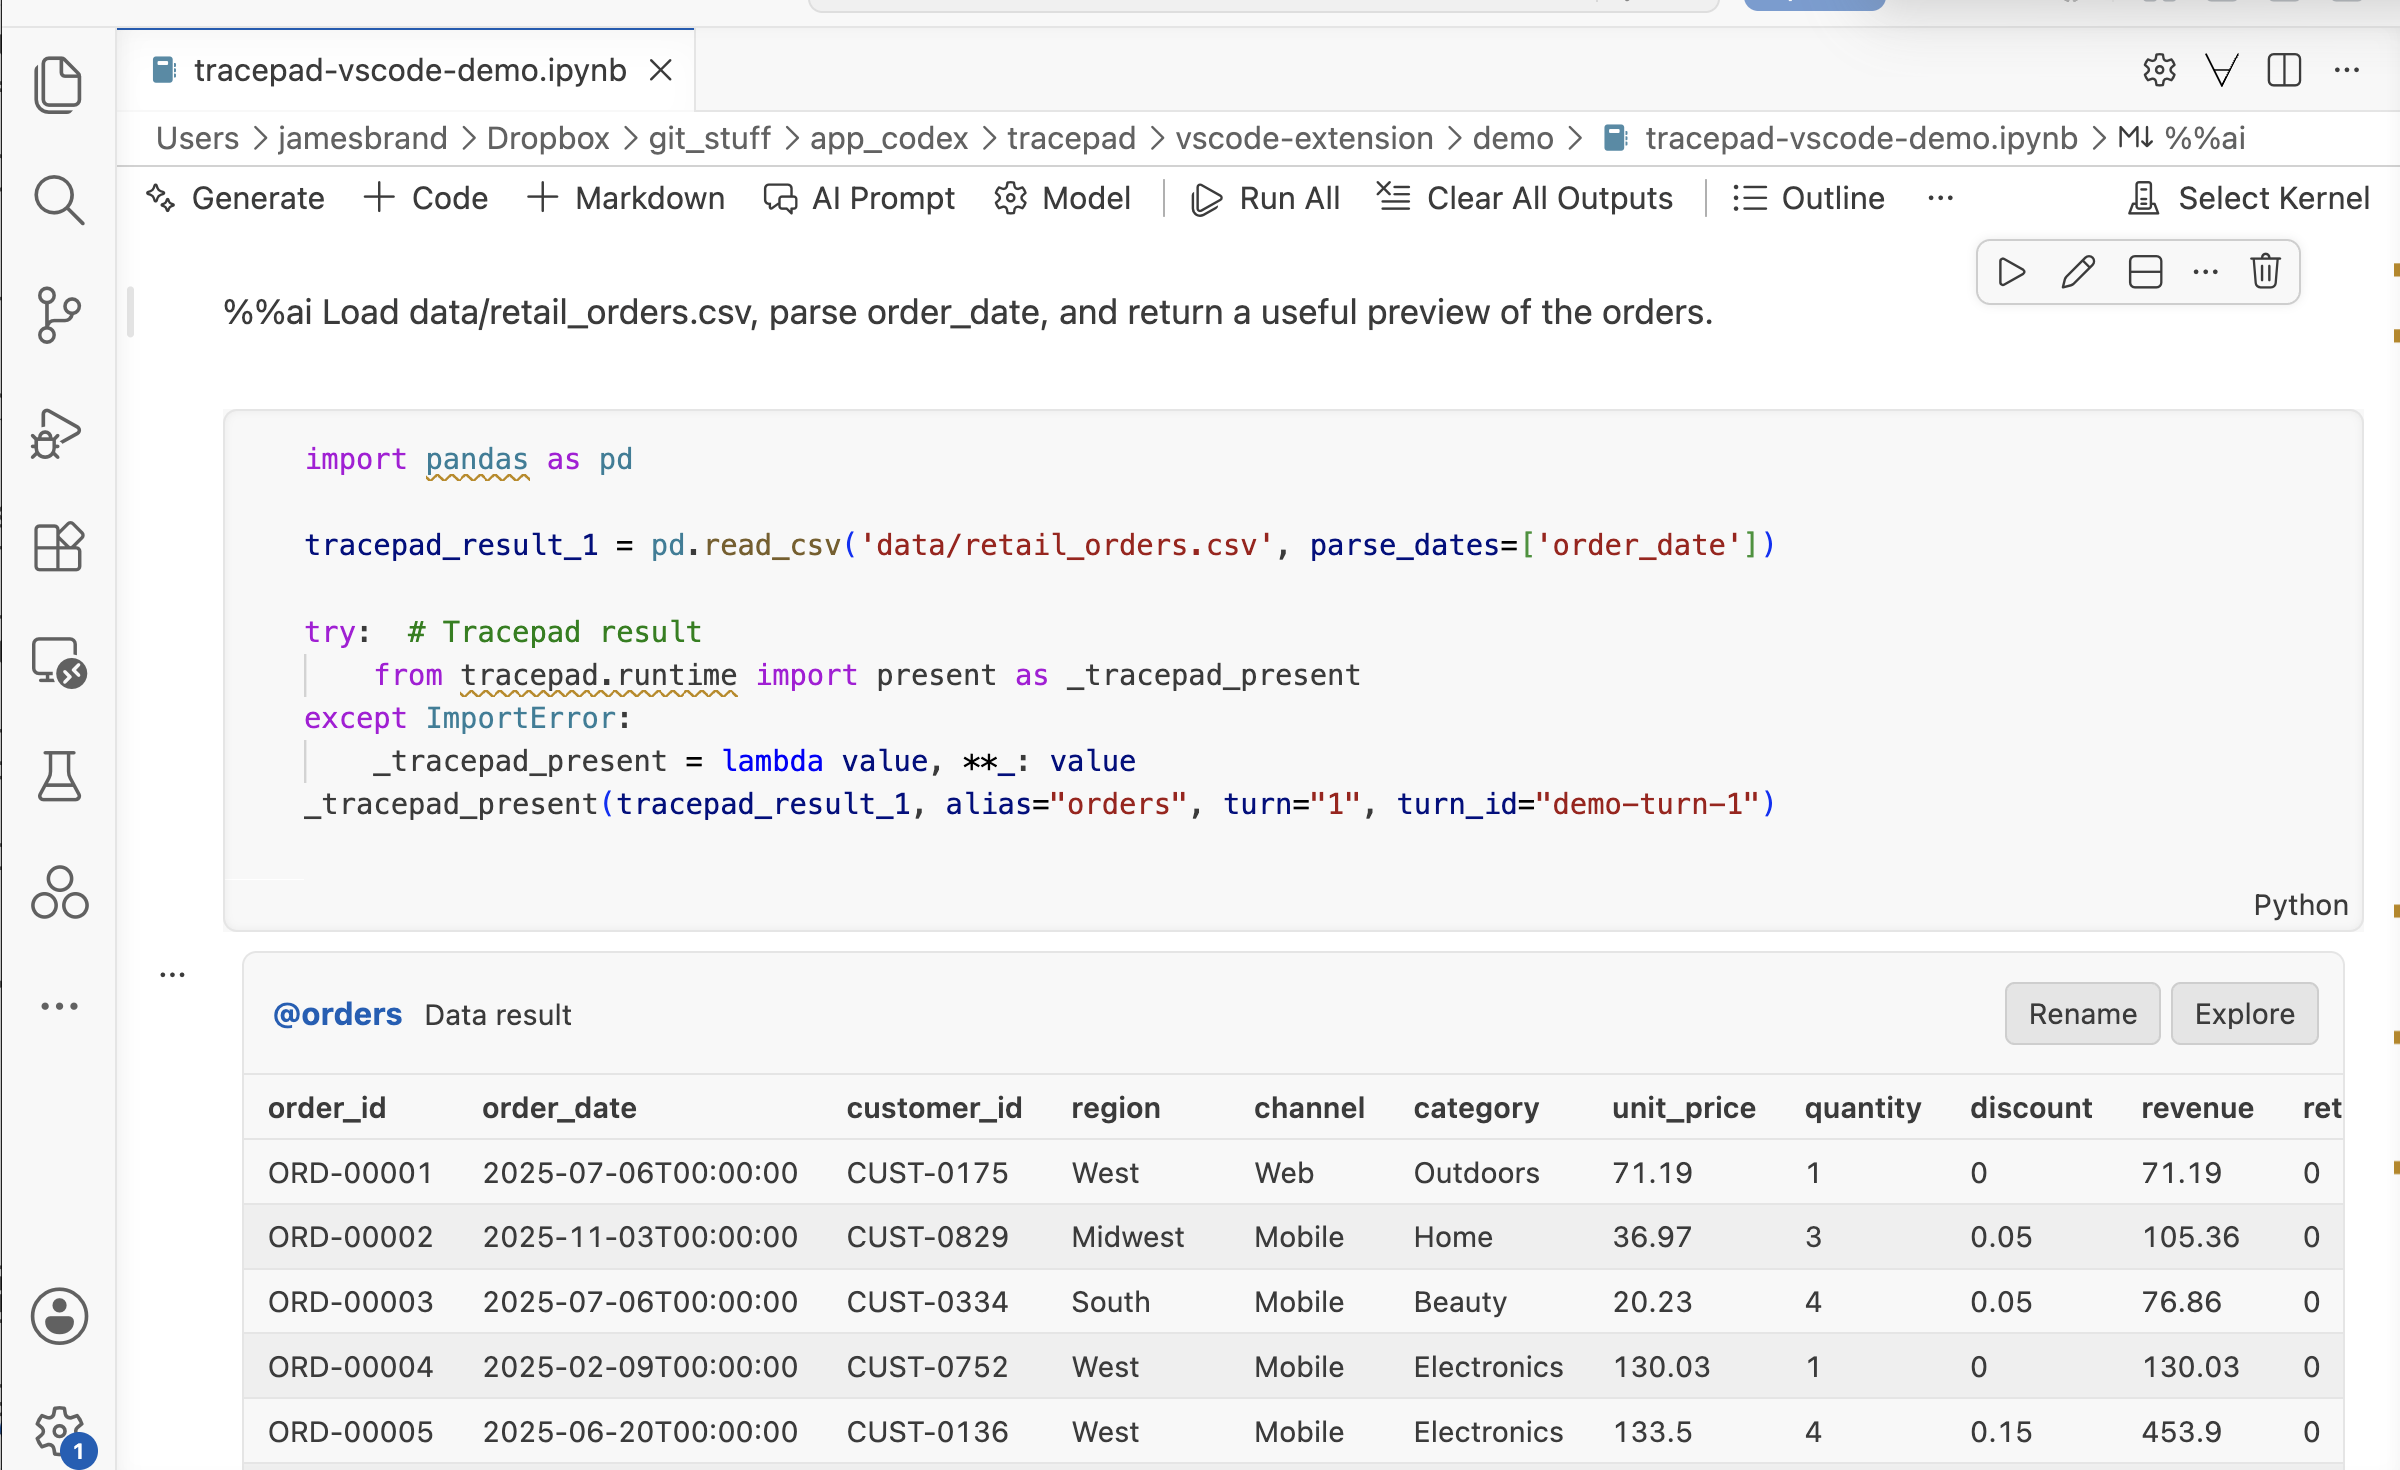
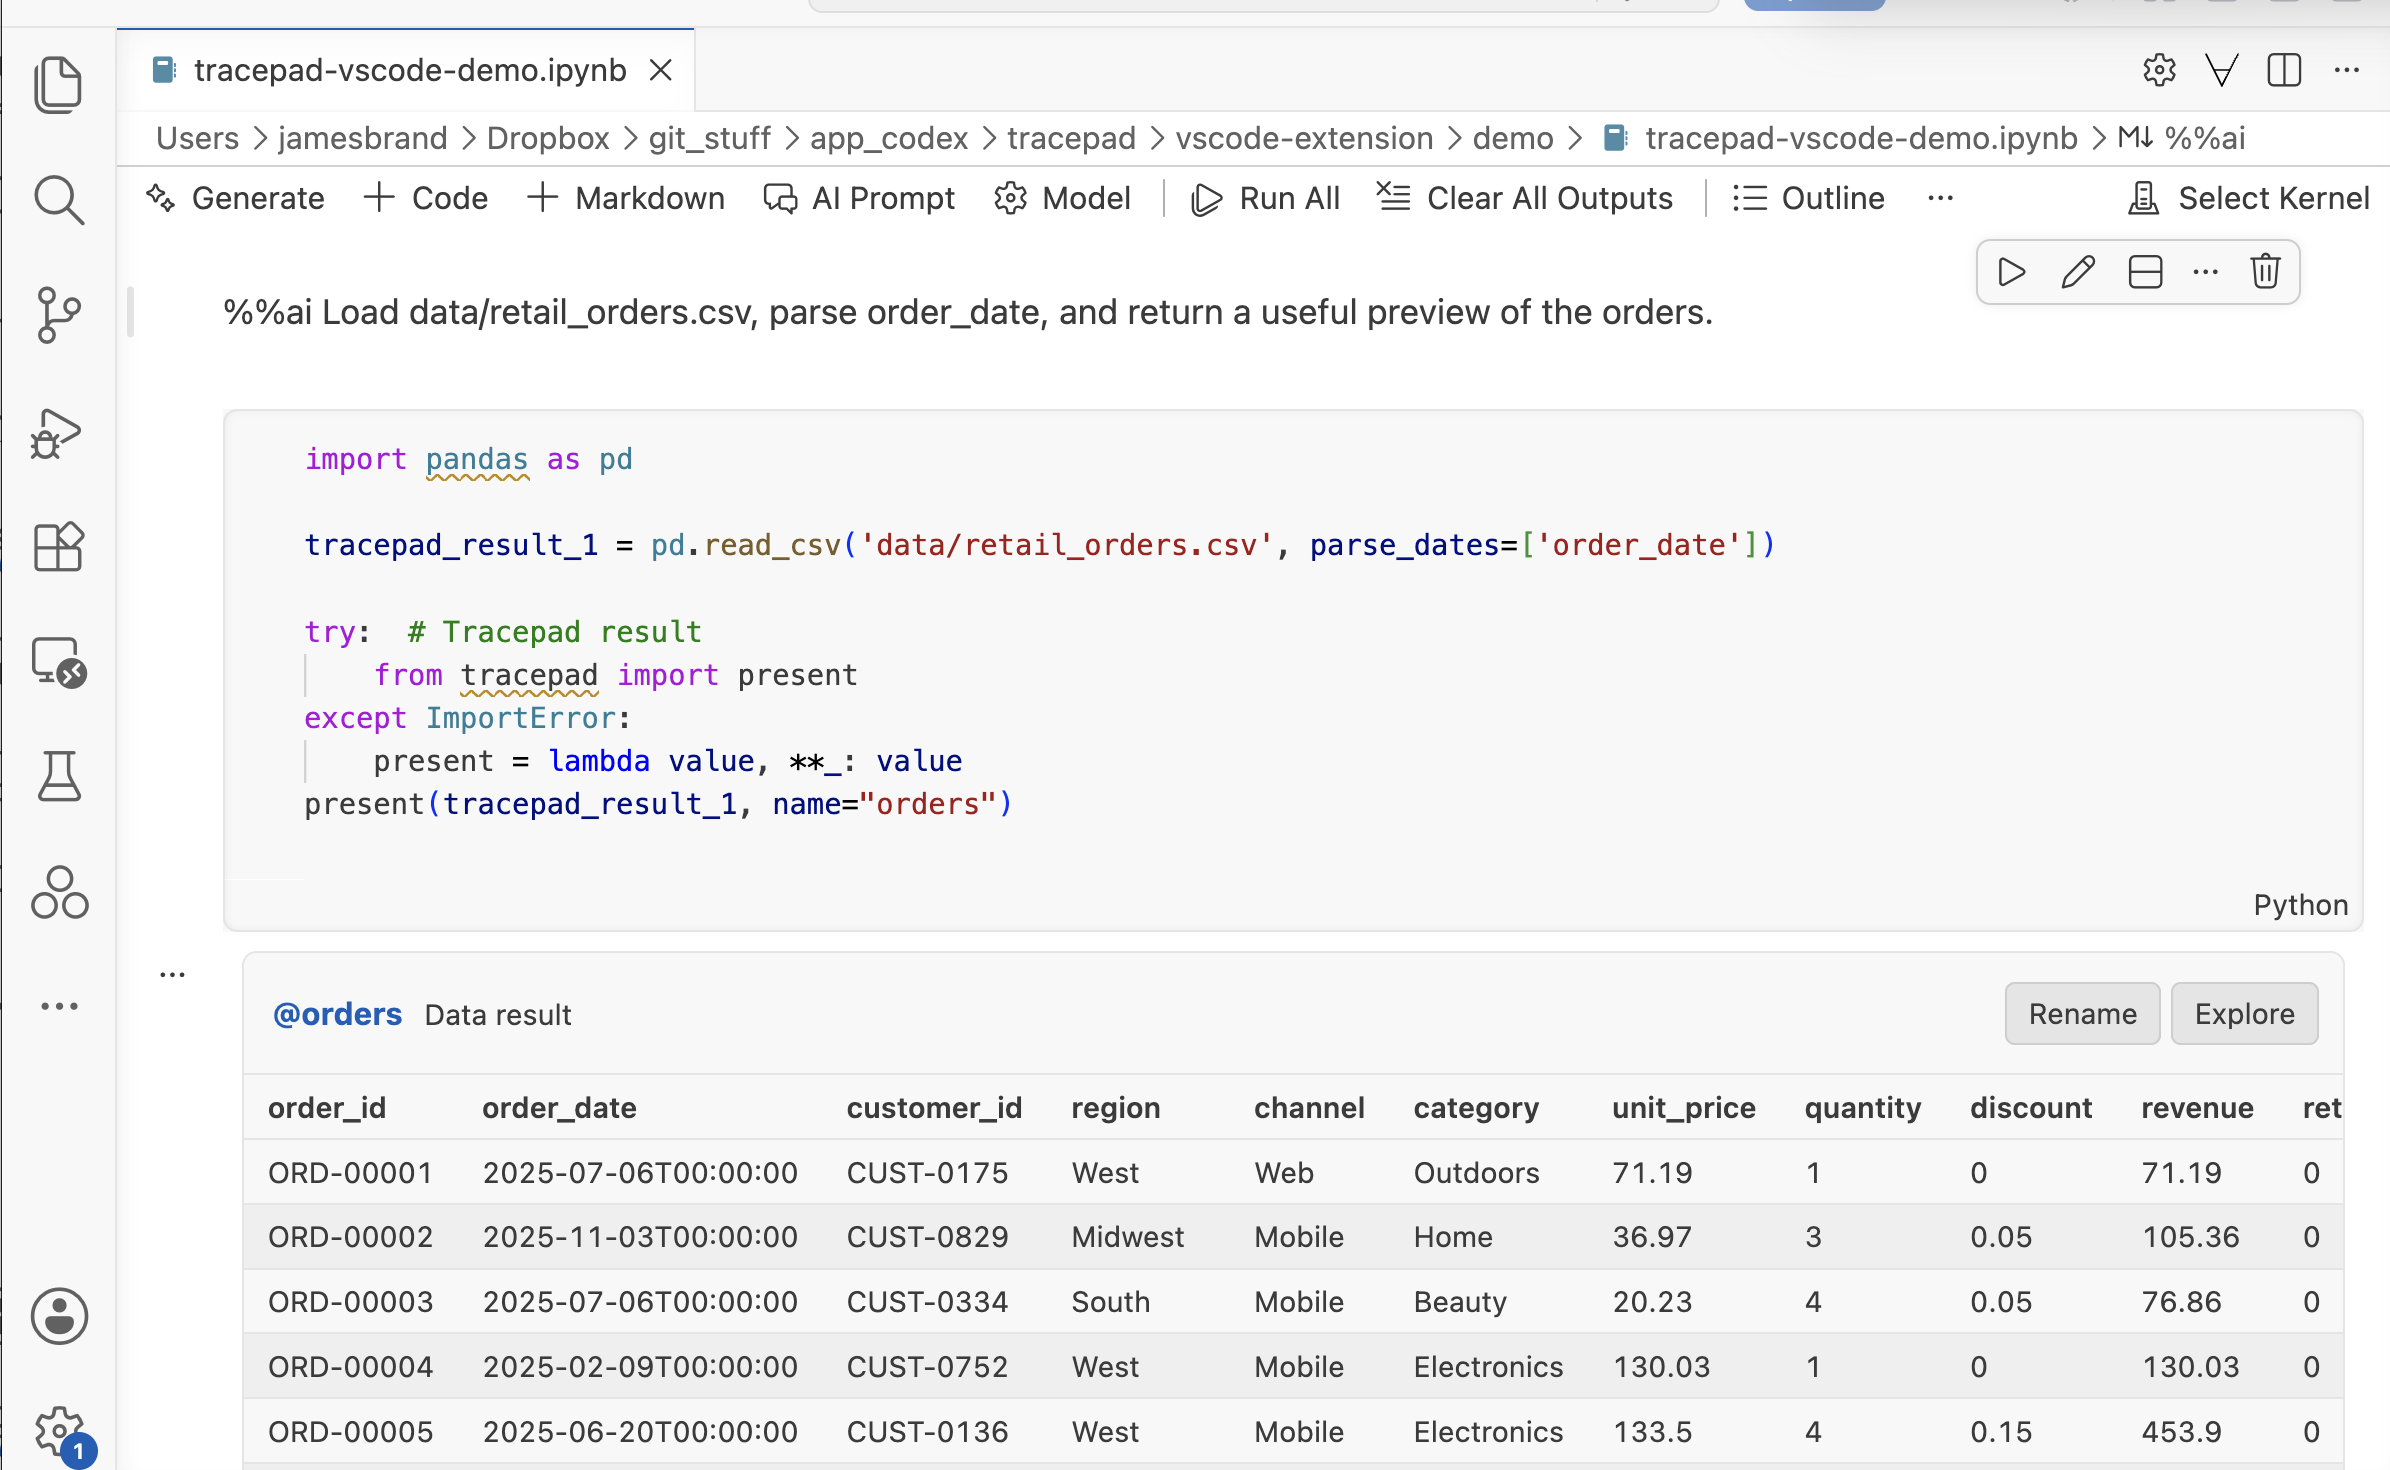
Simplify named result presentation

diff --git a/vscode-extension/src/extension.ts b/vscode-extension/src/extension.ts
@@ -118,8 +118,14 @@ async function handleRendererMessage(
     : {};
   const turnId = typeof message.turnId === "string" ? message.turnId : "";
   const cell = turnId
-    ? editor.notebook.getCells().find(candidate => tracepadMetadata(candidate.metadata)?.turnId === turnId
-      && tracepadMetadata(candidate.metadata)?.role === "code")
+    ? editor.notebook.getCells().find(candidate => {
+      const metadata = tracepadMetadata(candidate.metadata);
+      return metadata?.role === "code" && (
+        metadata.turnId === turnId
+        || metadata.alias === turnId
+        || metadata.aliases?.includes(turnId)
+      );
+    })
     : undefined;
   if (!cell) return;
   const metadata = tracepadMetadata(cell.metadata);
@@ -783,9 +789,7 @@ async function generatePromptCell(
     const alias = existingCodeMetadata?.alias ?? `result_${metadata.turnNumber.replace(/\./g, "_")}`;
     const presentedSource = appendResultBridge(result.code, language, {
       alias,
-      runtimeName,
-      turnId: metadata.turnId,
-      turnNumber: metadata.turnNumber
+      runtimeName
     });
     const generatedSourceHash = contentHash(stripResultBridge(presentedSource));
     const dependencyMetadata = selectedReferences.map(reference => ({ ...reference }));
@@ -996,6 +1000,13 @@ async function renameResult(target: unknown): Promise<void> {
     void vscode.window.showErrorMessage(`@${alias} is already used by another Tracepad result.`);
     return;
   }
+  if (metadata.runtimeName) {
+    const source = appendResultBridge(cell.document.getText(), cell.document.languageId, {
+      alias,
+      runtimeName: metadata.runtimeName
+    });
+    if (source !== cell.document.getText()) await replaceCellSource(cell, source);
+  }
   await updateCellMetadata(cell, {
     ...metadata,
     alias,
@@ -1003,7 +1014,12 @@ async function renameResult(target: unknown): Promise<void> {
   });
   if (resultRendererMessaging) {
     const editor = vscode.window.visibleNotebookEditors.find(candidate => candidate.notebook === cell.notebook);
-    await resultRendererMessaging.postMessage({ type: "aliasUpdated", turnId: metadata.turnId, alias }, editor);
+    await resultRendererMessaging.postMessage({
+      type: "aliasUpdated",
+      turnId: metadata.turnId,
+      previousAlias: metadata.alias,
+      alias
+    }, editor);
   }
 }
 

diff --git a/vscode-extension/src/renderer.ts b/vscode-extension/src/renderer.ts
@@ -34,10 +34,11 @@ export function activate(context: TracepadRendererContext) {
     const message = messageRecord(event);
     if (message.type !== "aliasUpdated" || typeof message.turnId !== "string" || typeof message.alias !== "string") return;
     const turnId = message.turnId;
+    const previousAlias = typeof message.previousAlias === "string" ? message.previousAlias : "";
     const aliasValue = message.alias;
     document.querySelectorAll("[data-tracepad-turn-id]").forEach(candidate => {
       const element = candidate as HTMLElement;
-      if (element.dataset.tracepadTurnId !== turnId) return;
+      if (element.dataset.tracepadTurnId !== turnId && element.dataset.alias !== previousAlias) return;
       element.dataset.alias = aliasValue;
       const alias = element.querySelector("[data-tracepad-alias]") as HTMLElement | null;
       if (alias) alias.textContent = `@${aliasValue}`;
@@ -240,9 +241,10 @@ function numberFormat(value: number): string {
 function parsePayload(value: unknown): TracepadResultPayload {
   if (!value || typeof value !== "object") throw new Error("Tracepad result output is not a JSON object.");
   const payload = value as TracepadResultPayload;
-  if (payload.version !== 1 || !payload.turnId || !payload.alias) {
+  if (payload.version !== 1 || !payload.alias) {
     throw new Error("Tracepad result output uses an unsupported schema.");
   }
+  payload.turnId ||= payload.alias;
   return payload;
 }
 

diff --git a/vscode-extension/src/resultBridge.test.ts b/vscode-extension/src/resultBridge.test.ts
@@ -9,17 +9,16 @@ import {
 describe("Tracepad result presentation bridge", () => {
   const options = {
     alias: "orders",
-    runtimeName: "tracepad_result_1",
-    turnId: "turn-1",
-    turnNumber: "1"
+    runtimeName: "tracepad_result_1"
   };
 
   it("adds a custom MIME presentation to Python cells", () => {
     const source = appendResultBridge("tracepad_result_1 = value", "python", options);
     expect(source).toContain(TRACEPAD_RESULT_MARKER);
-    expect(source).toContain("from tracepad.runtime import present");
-    expect(source).toContain('alias="orders"');
-    expect(source).toContain("_tracepad_present(tracepad_result_1");
+    expect(source).toContain("from tracepad import present");
+    expect(source).toContain('present(tracepad_result_1, name="orders")');
+    expect(source).not.toContain("turn_id=");
+    expect(source).not.toContain("turn=");
   });
 
   it("leaves other kernel languages unchanged", () => {
@@ -31,6 +30,6 @@ describe("Tracepad result presentation bridge", () => {
     const second = appendResultBridge(first, "python", { ...options, alias: "renamed" });
     expect(second.match(new RegExp(TRACEPAD_RESULT_MARKER, "g"))).toHaveLength(1);
     expect(stripResultBridge(second)).toBe("tracepad_result_1 = value");
-    expect(second).toContain('alias="renamed"');
+    expect(second).toContain('name="renamed"');
   });
 });

diff --git a/vscode-extension/src/resultBridge.ts b/vscode-extension/src/resultBridge.ts
@@ -4,8 +4,6 @@ export const TRACEPAD_RESULT_MARKER = "# Tracepad result";
 export interface ResultBridgeOptions {
   alias: string;
   runtimeName: string;
-  turnId: string;
-  turnNumber: string;
 }
 
 export function stripResultBridge(source: string): string {
@@ -25,9 +23,7 @@ export function appendResultBridge(
 
   const argumentsValue = [
     options.runtimeName,
-    `alias=${JSON.stringify(options.alias)}`,
-    `turn=${JSON.stringify(options.turnNumber)}`,
-    `turn_id=${JSON.stringify(options.turnId)}`
+    `name=${JSON.stringify(options.alias)}`
   ].join(", ");
 
   const withoutTrailingResult = cleanSource
@@ -37,9 +33,9 @@ export function appendResultBridge(
     .trimEnd();
 
   return `${withoutTrailingResult}\n\ntry:  ${TRACEPAD_RESULT_MARKER}
-    from tracepad.runtime import present as _tracepad_present
+    from tracepad import present
 except ImportError:
-    _tracepad_present = lambda value, **_: value
-_tracepad_present(${argumentsValue})
+    present = lambda value, **_: value
+present(${argumentsValue})
 `;
 }

diff --git a/vscode-extension/src/demo.test.ts b/vscode-extension/src/demo.test.ts
@@ -55,7 +55,7 @@ describe("VS Code demo notebook", () => {
       };
     };
     const keybindings = new Map(manifest.contributes.keybindings.map(item => [item.command, item]));
-    expect(manifest.version).toBe("0.3.6");
+    expect(manifest.version).toBe("0.3.7");
     expect((manifest as { icon?: string }).icon).toBe("media/tracepad-logo.png");
     expect(manifest.contributes.configuration.properties["tracepad.collapseGeneratedCode"]?.default).toBe(true);
     expect(keybindings.get("tracepad.generate")).toMatchObject({ key: "alt+t g" });

diff --git a/src/tracepad/runtime.py b/src/tracepad/runtime.py
@@ -33,11 +33,23 @@ def display_result(
     return payload
 
 
-def present(value: Any, *, alias: str, turn: str, turn_id: str) -> None:
-    """Display a Tracepad result without adding a second expression output."""
+def present(
+    value: Any,
+    *,
+    name: str | None = None,
+    alias: str | None = None,
+    turn: str = "",
+    turn_id: str = "",
+) -> None:
+    """Display a named Tracepad result without adding a second expression output.
+
+    ``alias``, ``turn``, and ``turn_id`` remain accepted for notebooks generated
+    by older Tracepad releases. New code only needs ``name``.
+    """
+    result_name = (name or alias or "result").strip() or "result"
     display_result(
         value,
-        alias=alias,
+        alias=result_name,
         runtime_name="",
         turn_id=turn_id,
         turn_number=turn,
@@ -60,11 +72,13 @@ def serialize_result(
         "kind": "value",
         "alias": alias,
         "runtimeName": runtime_name,
-        "turnId": turn_id,
-        "turnNumber": turn_number,
         "typeName": getattr(value_type, "__name__", str(value_type)),
         "module": module,
     }
+    if turn_id:
+        payload["turnId"] = turn_id
+    if turn_number:
+        payload["turnNumber"] = turn_number
 
     figure = getattr(value, "figure", value) if module.startswith("matplotlib") else None
     if figure is not None and hasattr(figure, "savefig"):

diff --git a/tests/test_runtime.py b/tests/test_runtime.py
@@ -1,6 +1,33 @@
 import pandas as pd
 
-from tracepad.runtime import RESULT_MIME, serialize_result
+from tracepad import runtime
+from tracepad.runtime import RESULT_MIME, present, serialize_result
+
+
+def test_present_only_requires_a_public_result_name(monkeypatch):
+    captured = {}
+
+    def fake_display_result(value, **metadata):
+        captured.update(metadata)
+        return {}
+
+    monkeypatch.setattr(runtime, "display_result", fake_display_result)
+    present(object(), name="orders")
+
+    assert captured["alias"] == "orders"
+    assert captured["turn_id"] == ""
+    assert captured["turn_number"] == ""
+
+
+def test_present_accepts_legacy_identity_fields(monkeypatch):
+    captured = {}
+    monkeypatch.setattr(runtime, "display_result", lambda value, **metadata: captured.update(metadata))
+
+    present(object(), alias="orders", turn="1", turn_id="turn-1")
+
+    assert captured["alias"] == "orders"
+    assert captured["turn_id"] == "turn-1"
+    assert captured["turn_number"] == "1"
 
 
 def test_serializes_dataframe_preview():

diff --git a/src/tracepad/__init__.py b/src/tracepad/__init__.py
@@ -1,6 +1,9 @@
 """Tracepad JupyterLab extension."""
 
+from .runtime import present
+
 __version__ = "0.1.0"
+__all__ = ["present"]
 
 
 def _jupyter_server_extension_points():
